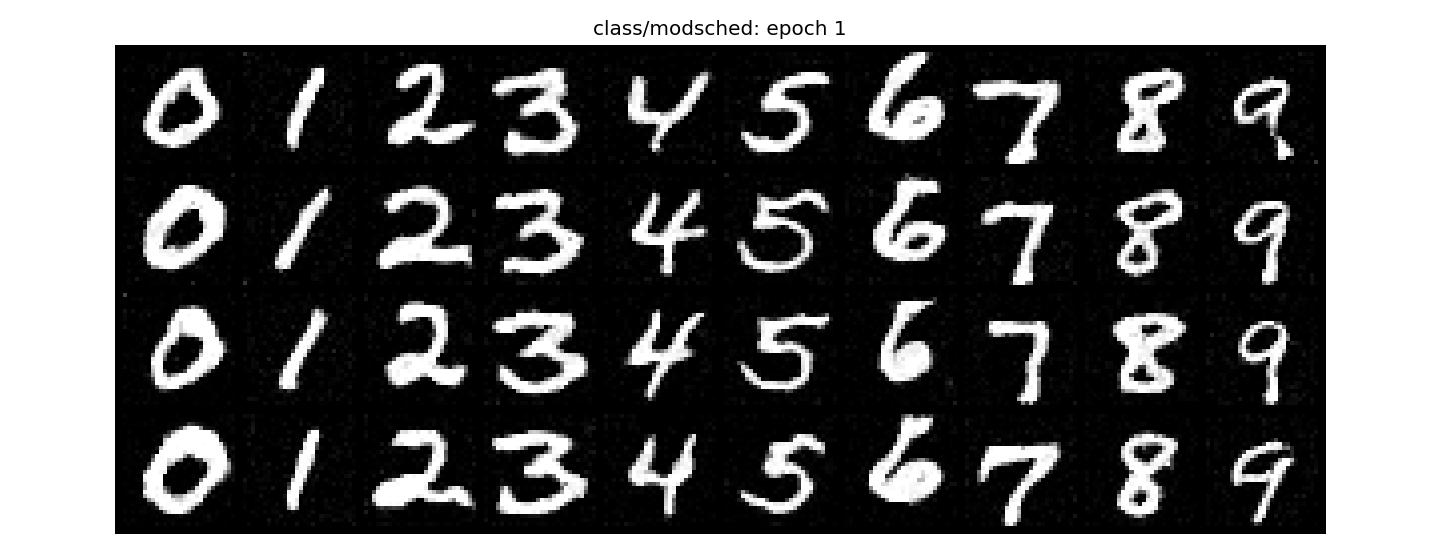
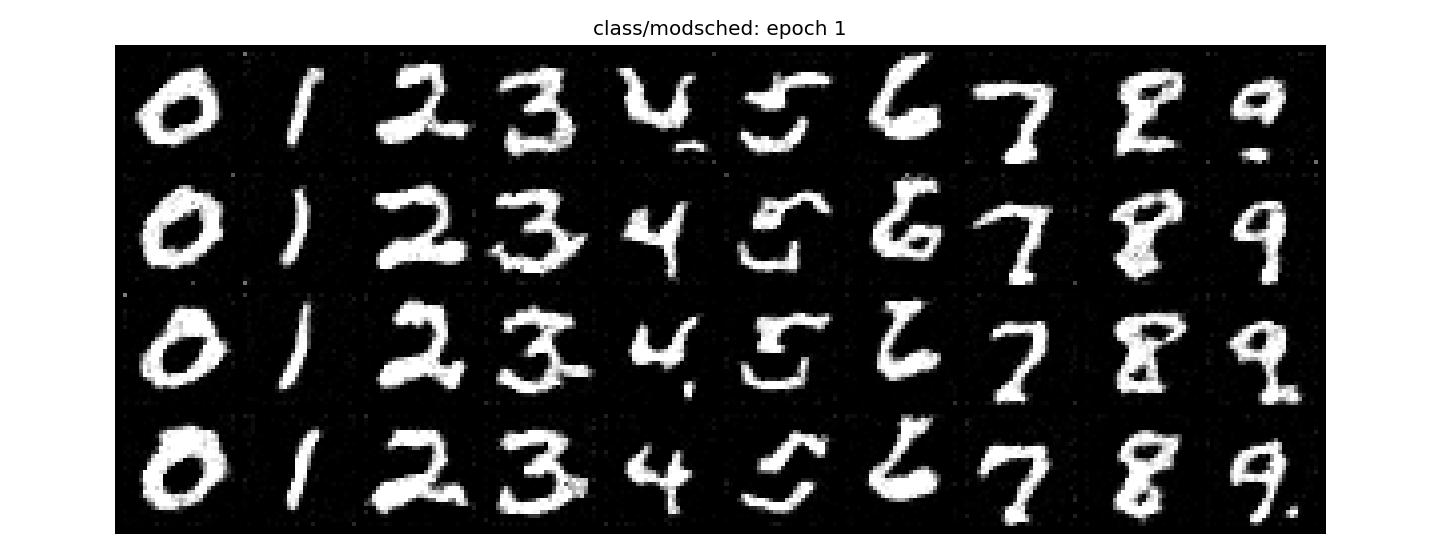
updated stale figures, added readme

diff --git a/3/submission/index.html b/3/submission/index.html
@@ -357,25 +357,25 @@
                 <figcaption>no scheduler, lr = 1e-2</figcaption>
             </figure>
         </div>
-        <p>So to remedy this, we train a better model where the learning rate is lower (1e-3), but we don’t have a scheduler. This seems to have better quality outputs, shown below.</p>
+        <p>So to remedy this, we train a better model where the learning rate is lower (1e-4), but we don’t have a scheduler. This seems to have better quality outputs than with no scheduler, most notably on epoch 1, shown below.</p>
         <div class="row">
             <figure class="wide">
                 <img src="results/part_b_images/all/train_class_conditional_mod_loss.png" alt="Training loss, no scheduler, lower learning rate" loading="lazy">
-                <figcaption>no scheduler, lr = 1e-3</figcaption>
+                <figcaption>no scheduler, lr = 1e-4</figcaption>
             </figure>
         </div>
         <div class="row">
             <figure class="full">
                 <img src="results/part_b_images/all/classepoch1test_mod.jpg" alt="Lower learning rate samples after epoch 1" loading="lazy">
-                <figcaption>no scheduler, lr = 1e-3</figcaption>
+                <figcaption>no scheduler, lr = 1e-4</figcaption>
             </figure>
             <figure class="full">
                 <img src="results/part_b_images/all/classepoch5test_mod.jpg" alt="Lower learning rate samples after epoch 5" loading="lazy">
-                <figcaption>no scheduler, lr = 1e-3</figcaption>
+                <figcaption>no scheduler, lr = 1e-4</figcaption>
             </figure>
             <figure class="full">
                 <img src="results/part_b_images/all/classepoch10test_mod.jpg" alt="Lower learning rate samples after epoch 10" loading="lazy">
-                <figcaption>no scheduler, lr = 1e-3</figcaption>
+                <figcaption>no scheduler, lr = 1e-4</figcaption>
             </figure>
         </div>
     </section>
